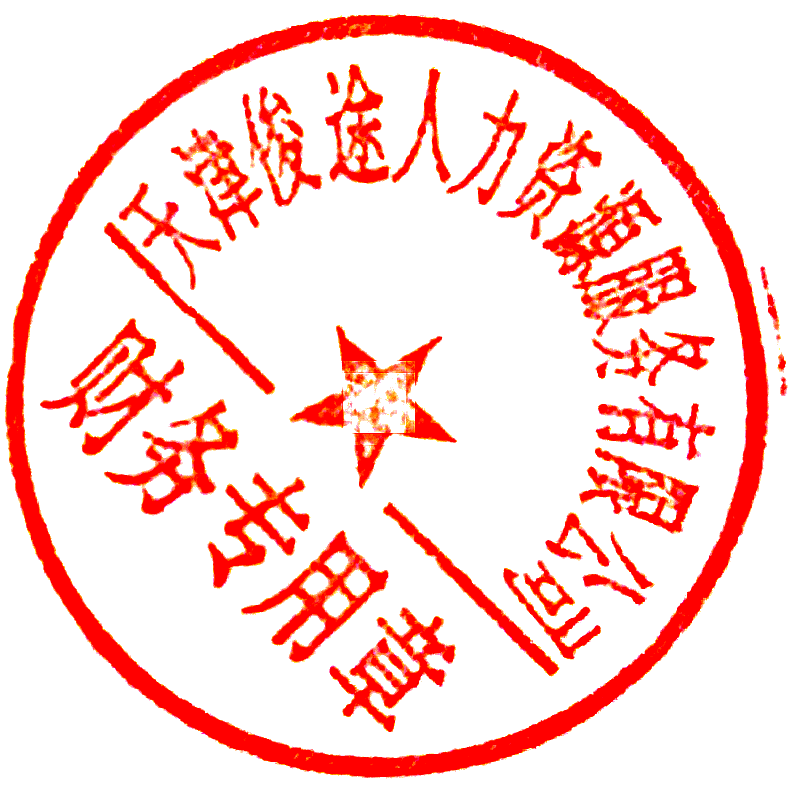
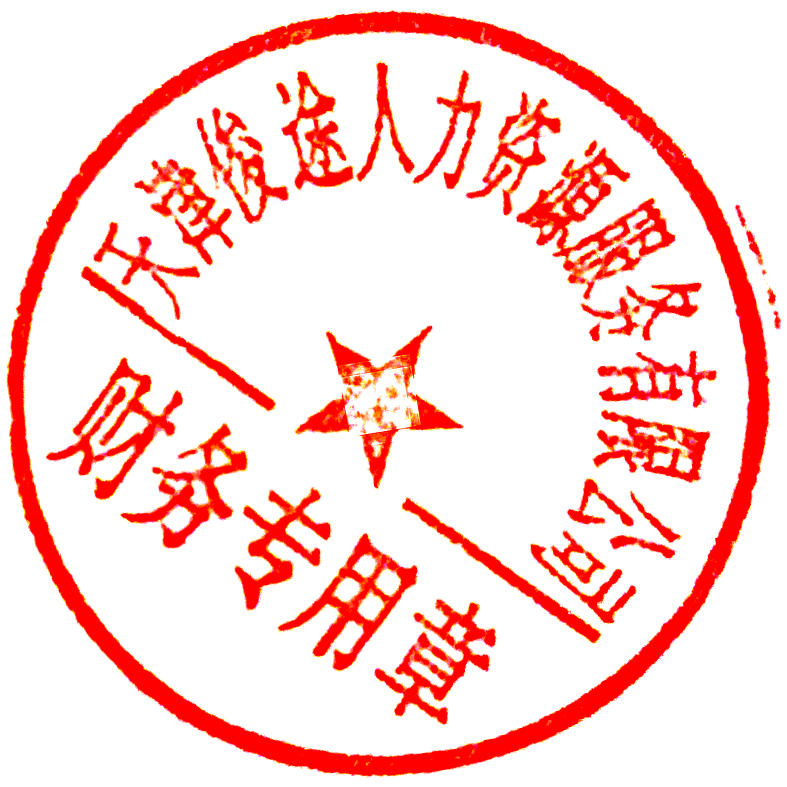
fix: 修复金额大写少零问题 + 章图片旋转纠偏

Changed region(s): [[0.0, 0.0, 1.0, 1.0]]

diff --git a/pdf_generator.py b/pdf_generator.py
@@ -25,11 +25,11 @@ _register_cjk_fonts()
 
 
 def num_to_chinese(num):
-    """数字转中文大写"""
+    """数字转中文大写金额"""
     num = float(num)
-    units = ['', '拾', '佰', '仟']
-    nums = '零壹贰叁肆伍陆柒捌玖'
-    decimal_unit = ['角', '分']
+    cn_nums = '零壹贰叁肆伍陆柒捌玖'
+    cn_int_units = ['', '拾', '佰', '仟']
+    cn_big_units = ['', '万', '亿', '万亿']
 
     integer_part = int(num)
     decimal_part = round((num - integer_part) * 100)
@@ -37,44 +37,61 @@ def num_to_chinese(num):
     if integer_part == 0 and decimal_part == 0:
         return '零元整'
 
+    # === 整数部分 ===
+    int_str = str(integer_part)
     result = ''
 
-    if integer_part > 0:
-        str_int = str(integer_part)
-        length = len(str_int)
-        zero_flag = False
+    # 4位一组，从低位到高位
+    groups = []
+    for i in range(len(int_str), 0, -4):
+        groups.append(int_str[max(0, i-4):i])
+    groups.reverse()
 
-        for i, digit in enumerate(str_int):
-            n = int(digit)
-            pos = length - i - 1
+    for gi, group in enumerate(groups):
+        big_idx = len(groups) - 1 - gi
+        group_str = ''
+        leading_zero = False
 
-            if n == 0:
-                if not zero_flag and pos % 4 == 0 and pos > 0:
-                    result += '零'
-                    zero_flag = True
+        for j, ch in enumerate(group):
+            digit = int(ch)
+            unit_pos = len(group) - 1 - j
+
+            if digit == 0:
+                if group_str and not group_str.endswith('零'):
+                    group_str += '零'
+                if not group_str:
+                    leading_zero = True
             else:
-                zero_flag = False
-                result += nums[n] + units[pos % 4]
+                group_str += cn_nums[digit] + cn_int_units[unit_pos]
 
-            if pos % 4 == 0 and pos > 0:
-                if pos == 4:
-                    result += '万'
-                elif pos == 8:
-                    result += '亿'
+        group_str = group_str.rstrip('零')
 
-        result += '元'
-    else:
-        result = '零元'
+        if group_str:
+            if leading_zero and result and not result.endswith('零'):
+                result += '零'
+            result += group_str + cn_big_units[big_idx]
+        else:
+            has_later = any(int(c) != 0 for g in groups[gi+1:] for c in g)
+            if has_later and not result.endswith('零'):
+                result += '零'
 
+    result += '元'
+
+    # === 小数部分 ===
     if decimal_part > 0:
         jiao = decimal_part // 10
         fen = decimal_part % 10
         if jiao > 0:
-            result += nums[jiao] + '角'
+            result += cn_nums[jiao] + '角'
+        elif integer_part > 0:
+            result += '零'
         if fen > 0:
-            result += nums[fen] + '分'
+            result += cn_nums[fen] + '分'
     else:
         result += '整'
+
+    if integer_part == 0:
+        result = '零元' + result.split('元', 1)[1] if '元' in result else result
 
     return result
 
